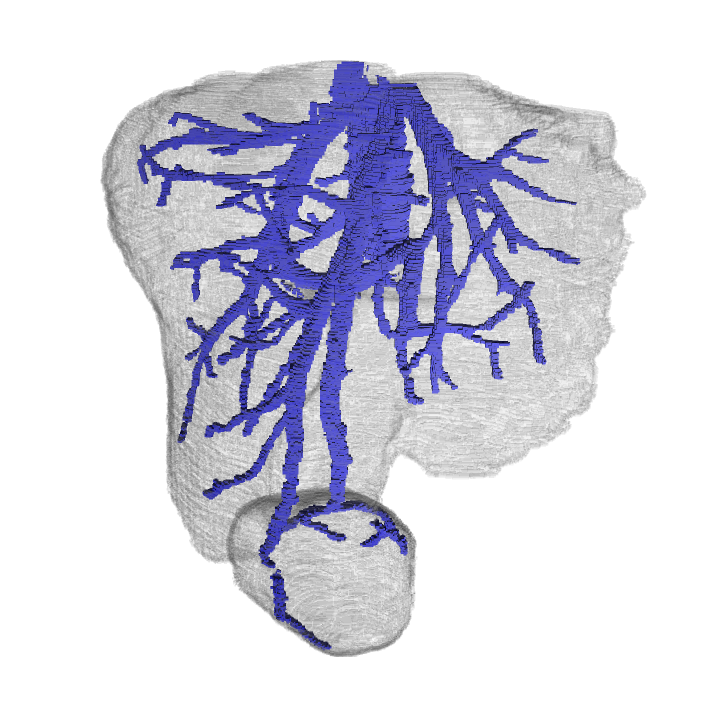
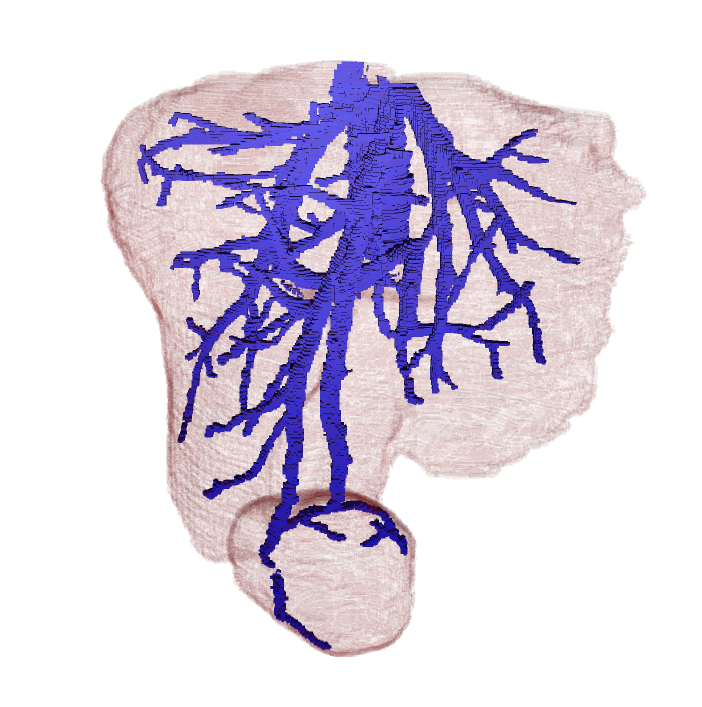
commandes 1x1x1 figure 1

Changed region(s): [[0.1197, 0.0622, 0.9274, 0.9335], [0.7479, 0.5912, 0.8077, 0.6223], [0.6581, 0.6535, 0.688, 0.6846]]

diff --git a/IllustrationsResICPR/illustrationFigure1.md b/IllustrationsResICPR/illustrationFigure1.md
@@ -3,12 +3,12 @@
 # Image sample: 3Dircadb1.12
 
 
-* Generation des mesh
+* Generation des mesh resolution 0.5
 
 ** Mesh du foie
       
    itk2vol -i /Users/kerautre/EnCours/LiverVesselness/build/bin/ircad_iso/3Dircadb1.12/maskedLiverIso.nii --inputMin 0 --inputMax 1 -t integer -o liverMaskIrcad1.12.vol 
-   volBoundary2obj -i liverMaskIrcad1.12.vol -o liverMaskIrcad1.12.off --customDiffuse 200 200 200 20
+   volBoundary2obj -i liverMaskIrcad1.12.vol -o liverMaskIrcad1.12.off --customDiffuse 230 20 20 10
 
 
 ** Mesh vérité terrain
@@ -39,3 +39,53 @@
 ** Display comb image (d)
 
    meshViewer -i refVesselIrcad1.12.off  bifuIrcad1.12.off  
+
+
+
+
+** vb rician 5 10 20 
+
+Prender les dernières données DATA11 ou DATA12 avec beaucoup de bifurcations.
+
+
+* Generation des mesh resolution 1x1x1
+
+** Mesh du foie
+      
+   itk2vol -i /Users/kerautre/EnCours/LiverVesselness/build/bin/ircad_iso/3Dircadb1.12/maskedLiverIso.nii --inputMin 0 --inputMax 1 -t integer -o liverMaskIrcad1.12_1x1x1.vol 
+   volBoundary2obj -i liverMaskIrcad1.12_1x1x1.vol -o liverMaskIrcad1.12_1x1x1.off --customDiffuse 230 20 20 10
+
+
+** Mesh vérité terrain
+
+   itk2vol -i /Users/kerautre/EnCours/LiverVesselness/build/bin/ircad_iso/3Dircadb1.12/vesselsIso.nii --inputMin 0 --inputMax 1 -t integer -o refVesselIrcad1.12_1x1x1.vol --maskImage  /Users/kerautre/EnCours/LiverVesselness/build/bin/ircad_iso/3Dircadb1.12/maskedLiverIso.nii   
+   volBoundary2obj -i  refVesselIrcad1.12_1x1x1.vol  -o  refVesselIrcad1.12_1x1x1.off  --customDiffuse 20 20 200 255    
+   volBoundary2obj -i  refVesselIrcad1.12_1x1x1.vol  -o  refVesselTransIrcad1.12_1x1x1.off  --customDiffuse 20 20 200 50 
+   
+** Mesh dilate:
+   itk2vol -i /Users/kerautre/EnCours/LiverVesselness/build/bin/ircad_iso/3Dircadb1.12/dilatedVesselsMaskIso.nii --inputMin 0 --inputMax 1 -t integer -o dilateIrcad1.12_1x1x1.vol --maskImage  /Users/kerautre/EnCours/LiverVesselness/build/bin/ircad_iso/3Dircadb1.12/maskedLiverIso.nii    
+   volBoundary2obj -i  dilateIrcad1.12_1x1x1.vol  -o  dilateIrcad1.12_1x1x1.off  --customDiffuse 200 20 20 25    
+
+
+** Mesh bifu:
+   itk2vol -i /Users/kerautre/EnCours/LiverVesselness/build/bin/ircad_iso/3Dircadb1.12/bifurcationsMaskIso.nii --inputMin 0 --inputMax 1 -t integer -o bifuIrcad1.12_1x1x1.vol --maskImage  /Users/kerautre/EnCours/LiverVesselness/build/bin/ircad_iso/3Dircadb1.12/maskedLiverIso.nii
+   volBoundary2obj -i  bifuIrcad1.12_1x1x1.vol  -o  bifuIrcad1.12_1x1x1.off  --customDiffuse 200 20 20 100    
+
+** Display comb image (c)
+   
+   meshViewer -i liverMaskIrcad1.12_1x1x1.off refVesselIrcad1.12_1x1x1.off                                       
+
+** Display comb image (d)
+
+   meshViewer -i refVesselIrcad1.12_1x1x1.off  dilateIrcad1.12_1x1x1.off  
+
+
+
+** Display comb image (d)
+
+   meshViewer -i refVesselIrcad1.12_1x1x1.off  bifuIrcad1.12_1x1x1.off  
+
+   meshViewer -i refVesselTransIrcad1.12_1x1x1.off  bifuOpaqueIrcad1.12_1x1x1.off
+
+
+
